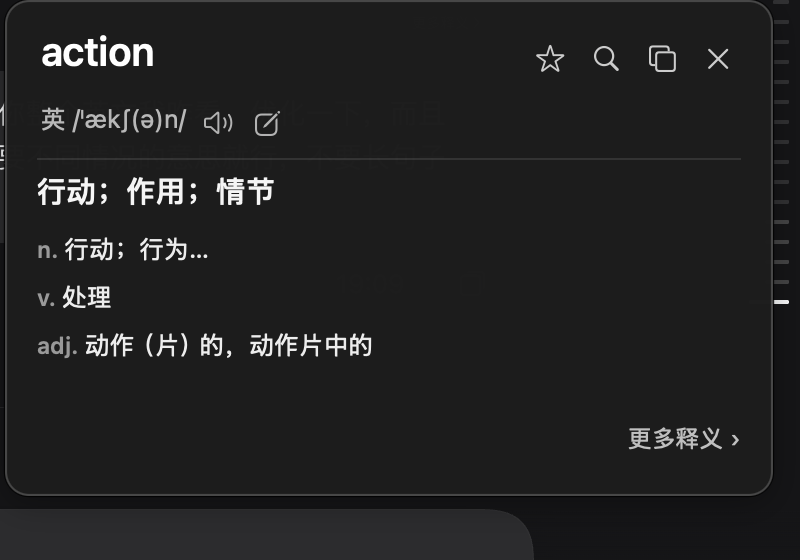
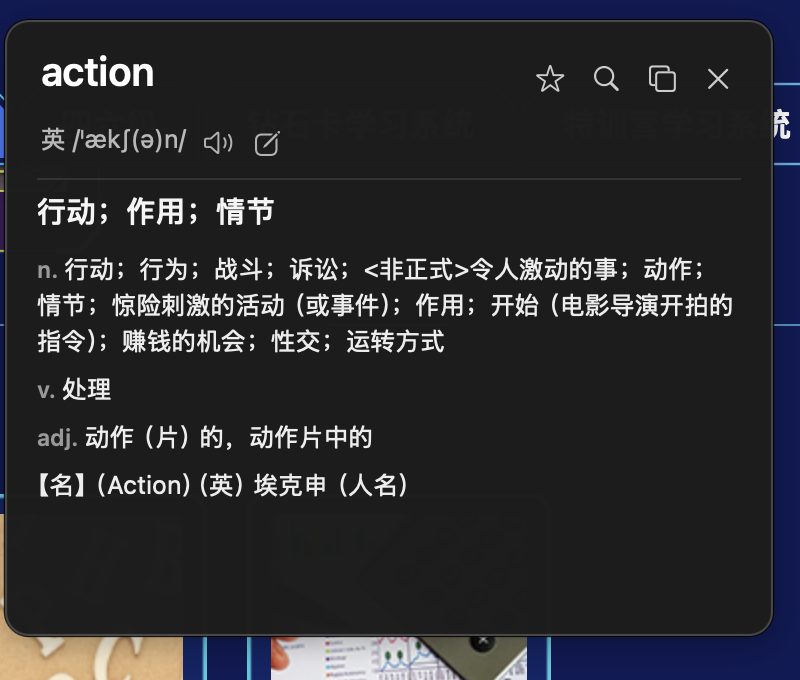
feat(0.6.3): show full Chinese senses with in-card scrolling

diff --git a/src-tauri/helper/BubbleHelper.swift b/src-tauri/helper/BubbleHelper.swift
@@ -469,12 +469,10 @@ final class BubbleView: NSView, NSTextViewDelegate {
         // 中文释义：一行一个词性，「n. 行动；行为；战斗」这种词组式，扫一眼就懂
         let zhSenses = r.senses.filter { $0.zh == true }
         if !zhSenses.isEmpty {
-            let shown = expanded ? zhSenses : Array(zhSenses.prefix(3))
-            for s in shown {
+            // 中文释义：全部给出来，卡片内部滚动，不再截断成「…」
+            for s in zhSenses {
                 let head = s.pos.isEmpty ? "" : shortPos(s.pos) + " "
-                let items = expanded ? s.defs : Array(s.defs.prefix(2))
-                var line = head + items.joined(separator: "；")
-                if !expanded && s.defs.count > items.count { line += "…" }
+                let line = head + s.defs.joined(separator: "；")
                 let p2 = NSMutableParagraphStyle()
                 p2.lineSpacing = 3
                 p2.paragraphSpacing = 6
@@ -551,9 +549,10 @@ final class BubbleView: NSView, NSTextViewDelegate {
         redoBtn.isHidden = isWord && !editingSource
         editBtn.isHidden = !isWord
 
-        let hasMore = r.senses.count > 2
+        let hasZh = r.senses.contains { $0.zh == true }
+        let hasMore = !hasZh && (r.senses.count > 2
             || r.senses.contains { $0.defs.count > 2 }
-            || r.senses.contains { ($0.examples ?? []).count > 1 }
+            || r.senses.contains { ($0.examples ?? []).count > 1 })
         moreBtn.isHidden = !(isWord && (hasMore || expanded))
         moreBtn.title = expanded ? "收起 ‹" : "更多释义 ›"
 
@@ -598,7 +597,7 @@ final class BubbleView: NSView, NSTextViewDelegate {
             : (pad + 16 + 8 + sourceH + 10)
         let bottomChrome: CGFloat = isWord ? (pad + 26) : (pad + 26 + pad / 2)
         var height = topChrome + textHeight + bottomChrome
-        height = min(max(height, 150), 440)
+        height = min(max(height, 150), 520)
 
         frame = NSRect(x: 0, y: 0, width: panelWidth, height: height)
 
@@ -629,7 +628,10 @@ final class BubbleView: NSView, NSTextViewDelegate {
 
             let bodyBottom = btnY + 26 + 10
             let bodyTop = (editingSource ? sourceBox.frame.minY : phonY) - 16
-            scroll.frame = NSRect(x: pad, y: bodyBottom, width: bodyWidth, height: max(24, bodyTop - bodyBottom))
+            let bodyHeight = max(24, bodyTop - bodyBottom)
+            scroll.frame = NSRect(x: pad, y: bodyBottom, width: bodyWidth, height: bodyHeight)
+            body.frame = NSRect(x: 0, y: 0, width: bodyWidth, height: max(textHeight, bodyHeight))
+            scroll.hasVerticalScroller = textHeight > bodyHeight + 1
         } else {
             header.frame = NSRect(x: pad, y: height - pad - 16, width: bodyWidth, height: 16)
             sourceBox.frame = NSRect(x: pad, y: height - pad - 16 - 8 - sourceH, width: bodyWidth, height: sourceH)
@@ -645,7 +647,10 @@ final class BubbleView: NSView, NSTextViewDelegate {
 
             let bodyBottom = btnY + 26 + 12
             let bodyTop = sourceBox.frame.minY - 10
-            scroll.frame = NSRect(x: pad, y: bodyBottom, width: bodyWidth, height: max(20, bodyTop - bodyBottom))
+            let bodyHeight = max(20, bodyTop - bodyBottom)
+            scroll.frame = NSRect(x: pad, y: bodyBottom, width: bodyWidth, height: bodyHeight)
+            body.frame = NSRect(x: 0, y: 0, width: bodyWidth, height: max(textHeight, bodyHeight))
+            scroll.hasVerticalScroller = textHeight > bodyHeight + 1
         }
 
         body.textStorage?.setAttributedString(attr)

diff --git a/src/app.html b/src/app.html
@@ -721,7 +721,7 @@ $('openInput').addEventListener('click', () => invoke('open_input_settings'));
 // ---------- 启动 ----------
 (async () => {
   await loadSettings();
-  $('ver').textContent = '0.6.2';
+  $('ver').textContent = '0.6.3';
   updateCount();
   const tab = new URLSearchParams(location.search).get('tab');
   switchTab(tab || 'translate');
